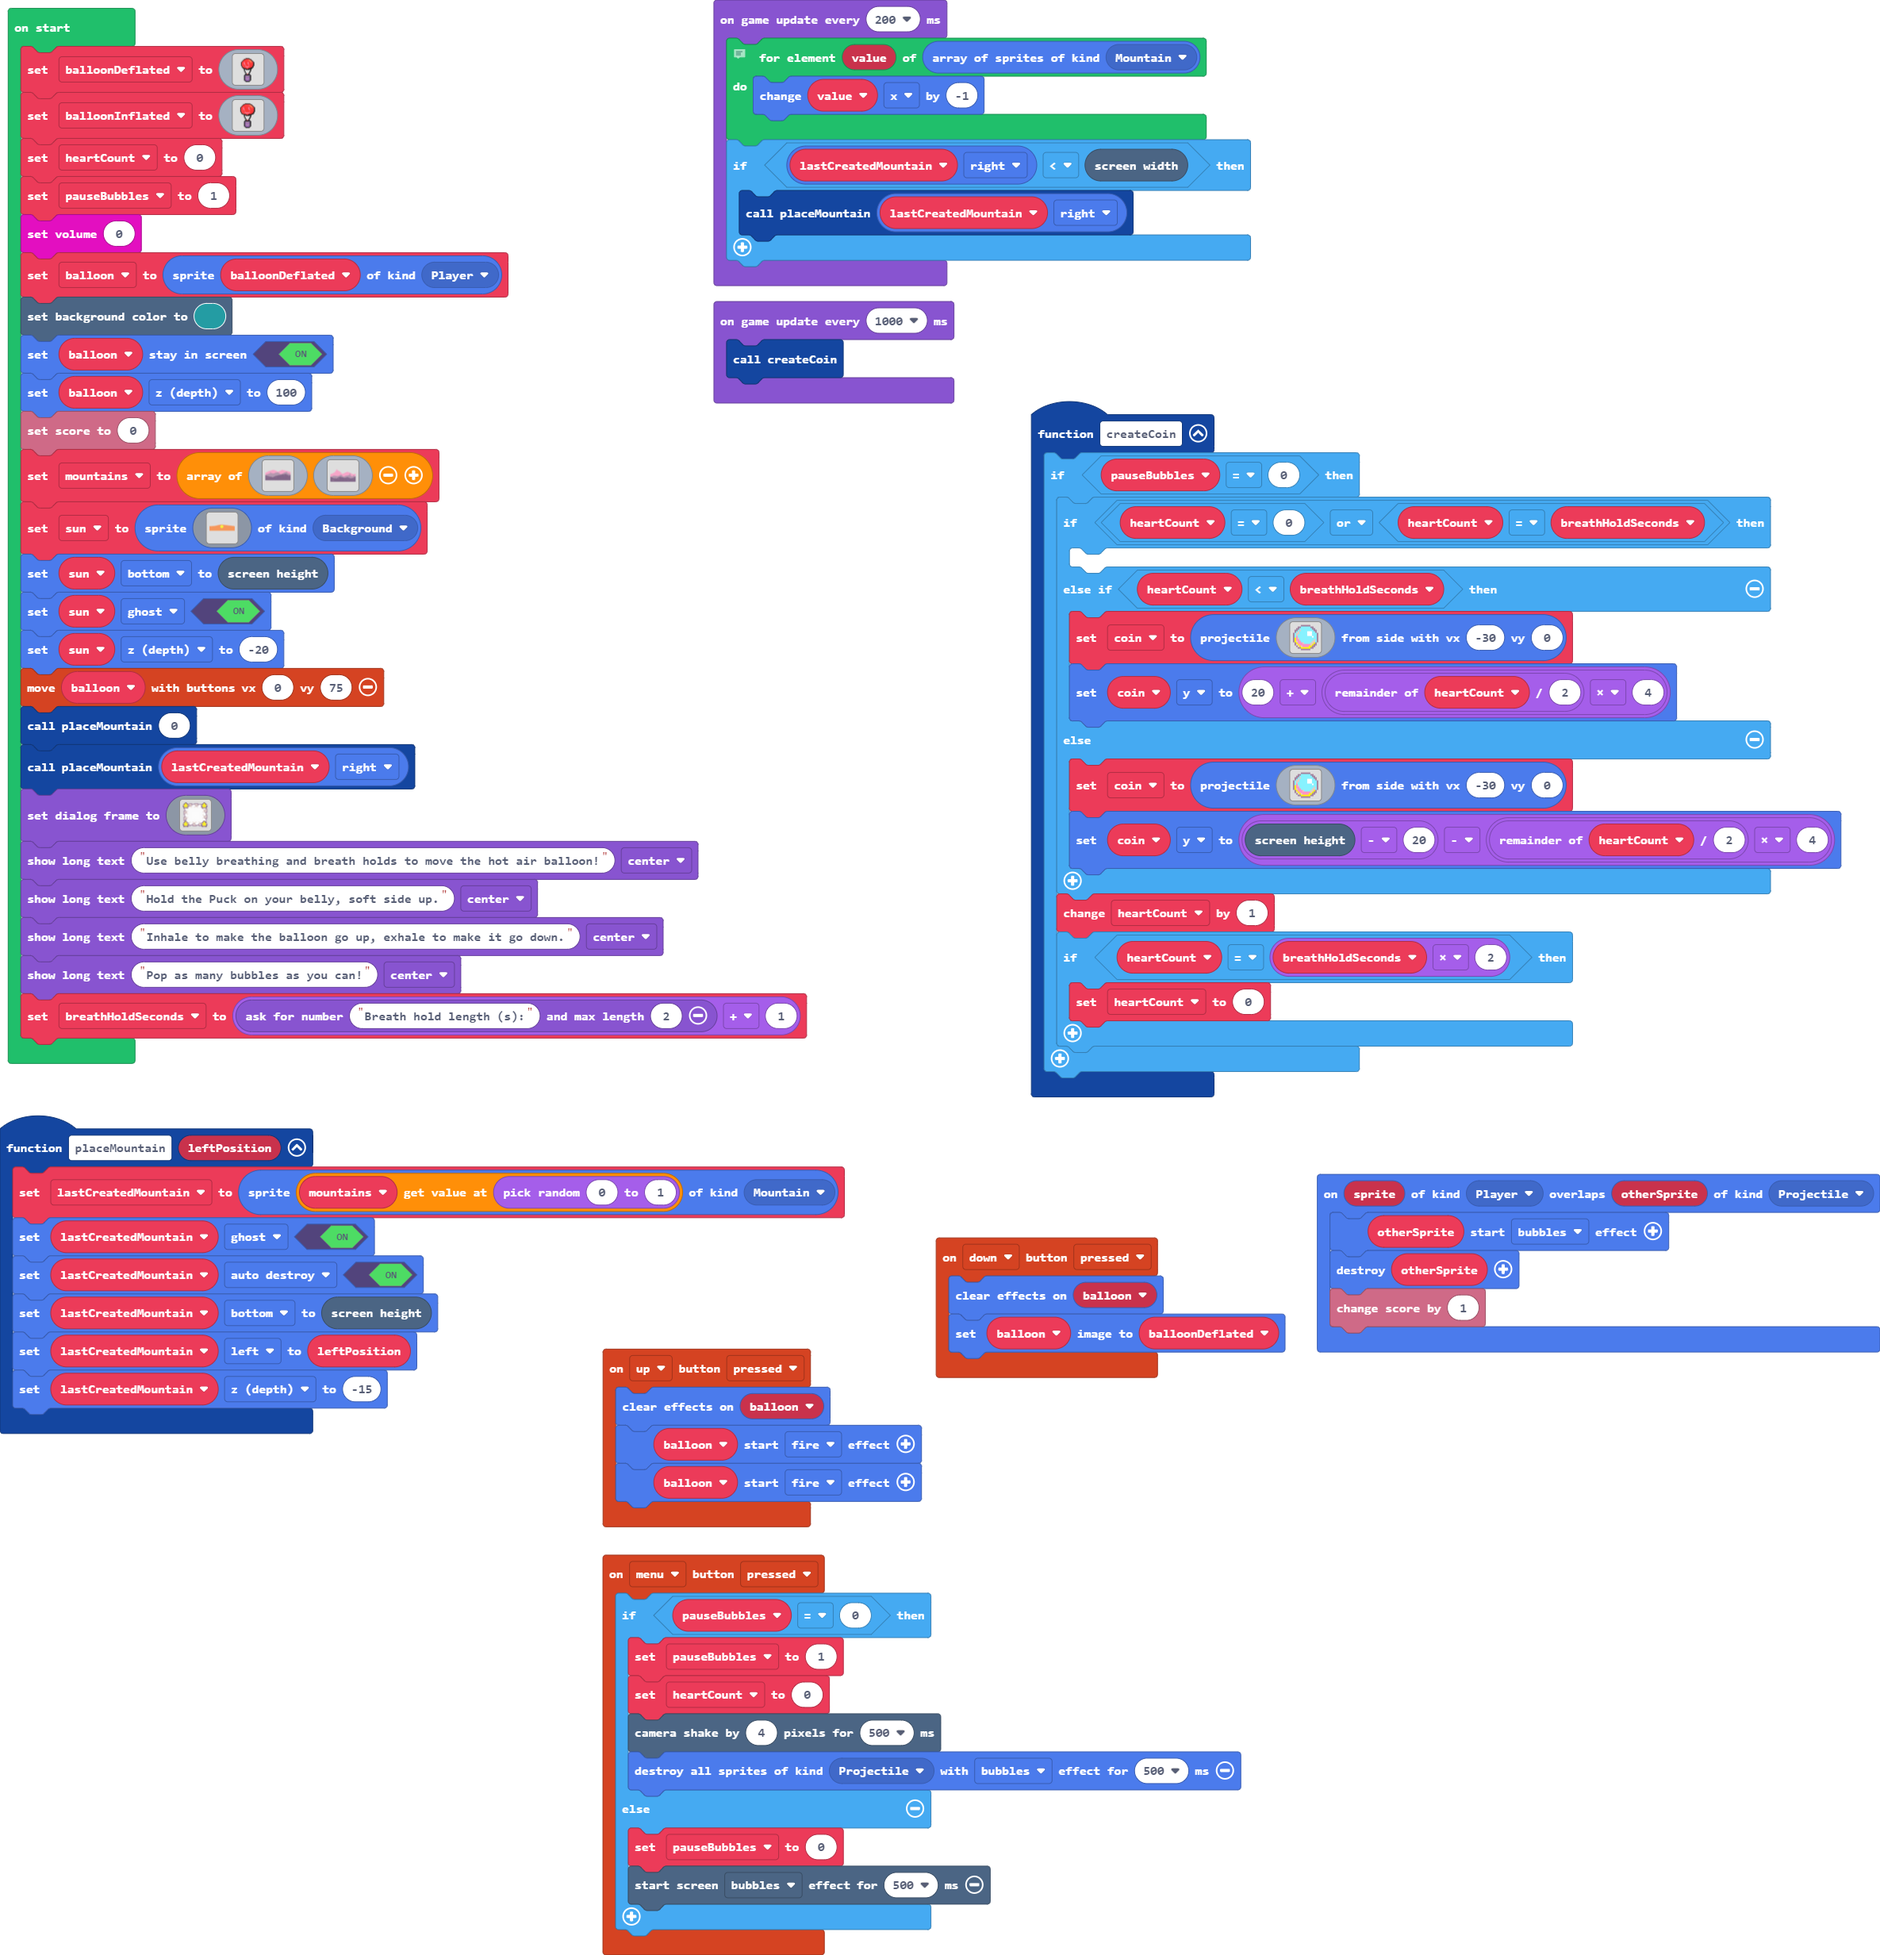
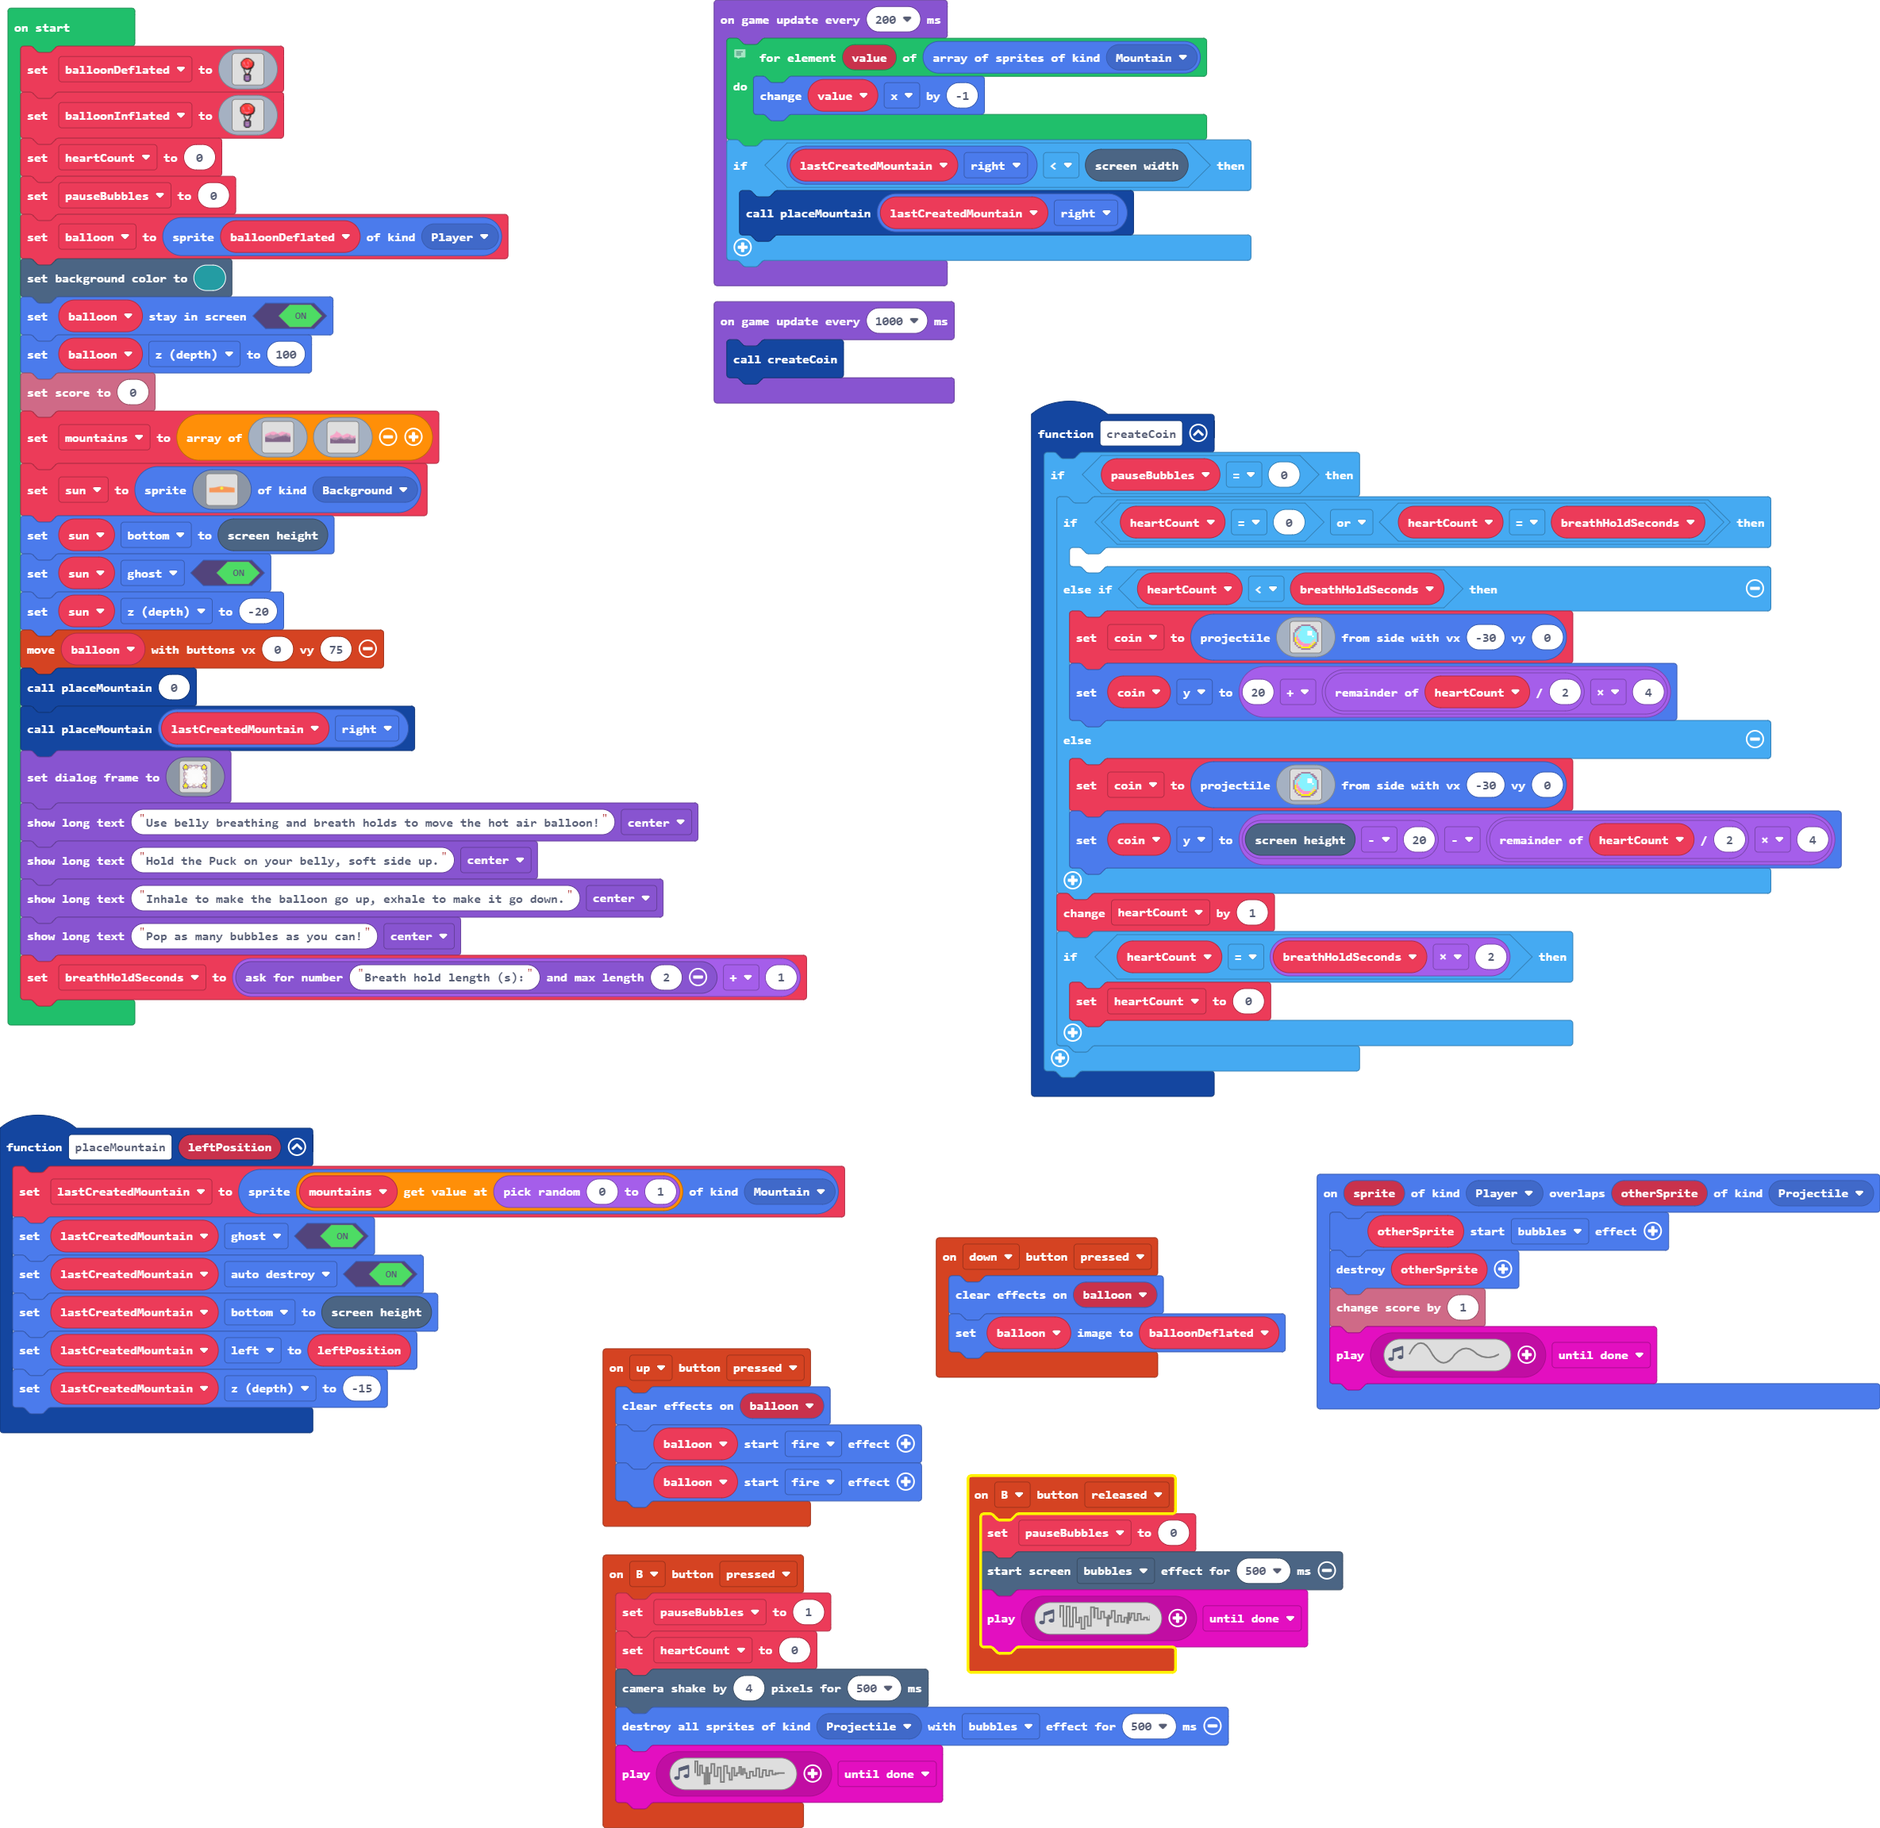
Changed menu button to B button

diff --git a/main.ts b/main.ts
@@ -7,6 +7,13 @@ controller.up.onEvent(ControllerButtonEvent.Pressed, function () {
     balloon.startEffect(effects.fire)
     balloon.startEffect(effects.fire)
 })
+controller.B.onEvent(ControllerButtonEvent.Pressed, function () {
+    pauseBubbles = 1
+    heartCount = 0
+    scene.cameraShake(4, 500)
+    sprites.destroyAllSpritesOfKind(SpriteKind.Projectile, effects.bubbles, 500)
+    music.play(music.createSoundEffect(WaveShape.Noise, 3340, 620, 255, 0, 500, SoundExpressionEffect.None, InterpolationCurve.Linear), music.PlaybackMode.UntilDone)
+})
 function createCoin () {
     if (pauseBubbles == 0) {
         if (heartCount == 0 || heartCount == breathHoldSeconds) {
@@ -62,6 +69,7 @@ sprites.onOverlap(SpriteKind.Player, SpriteKind.Projectile, function (sprite, ot
     otherSprite.startEffect(effects.bubbles)
     sprites.destroy(otherSprite)
     info.changeScoreBy(1)
+    music.play(music.createSoundEffect(WaveShape.Sine, 200, 600, 255, 0, 150, SoundExpressionEffect.None, InterpolationCurve.Linear), music.PlaybackMode.UntilDone)
 })
 function placeMountain (leftPosition: number) {
     lastCreatedMountain = sprites.create(mountains[randint(0, 1)], SpriteKind.Mountain)
@@ -75,16 +83,10 @@ controller.down.onEvent(ControllerButtonEvent.Pressed, function () {
     effects.clearParticles(balloon)
     balloon.setImage(balloonDeflated)
 })
-controller.menu.onEvent(ControllerButtonEvent.Pressed, function () {
-    if (pauseBubbles == 0) {
-        pauseBubbles = 1
-        heartCount = 0
-        scene.cameraShake(4, 500)
-        sprites.destroyAllSpritesOfKind(SpriteKind.Projectile, effects.bubbles, 500)
-    } else {
-        pauseBubbles = 0
-        effects.bubbles.startScreenEffect(500)
-    }
+controller.B.onEvent(ControllerButtonEvent.Released, function () {
+    pauseBubbles = 0
+    effects.bubbles.startScreenEffect(500)
+    music.play(music.createSoundEffect(WaveShape.Noise, 1066, 3473, 255, 0, 500, SoundExpressionEffect.None, InterpolationCurve.Linear), music.PlaybackMode.UntilDone)
 })
 let coin: Sprite = null
 let breathHoldSeconds = 0
@@ -165,8 +167,7 @@ let balloonInflated = img`
     .......fffff.......
     `
 heartCount = 0
-pauseBubbles = 1
-music.setVolume(0)
+pauseBubbles = 0
 balloon = sprites.create(balloonDeflated, SpriteKind.Player)
 scene.setBackgroundColor(6)
 balloon.setStayInScreen(true)
